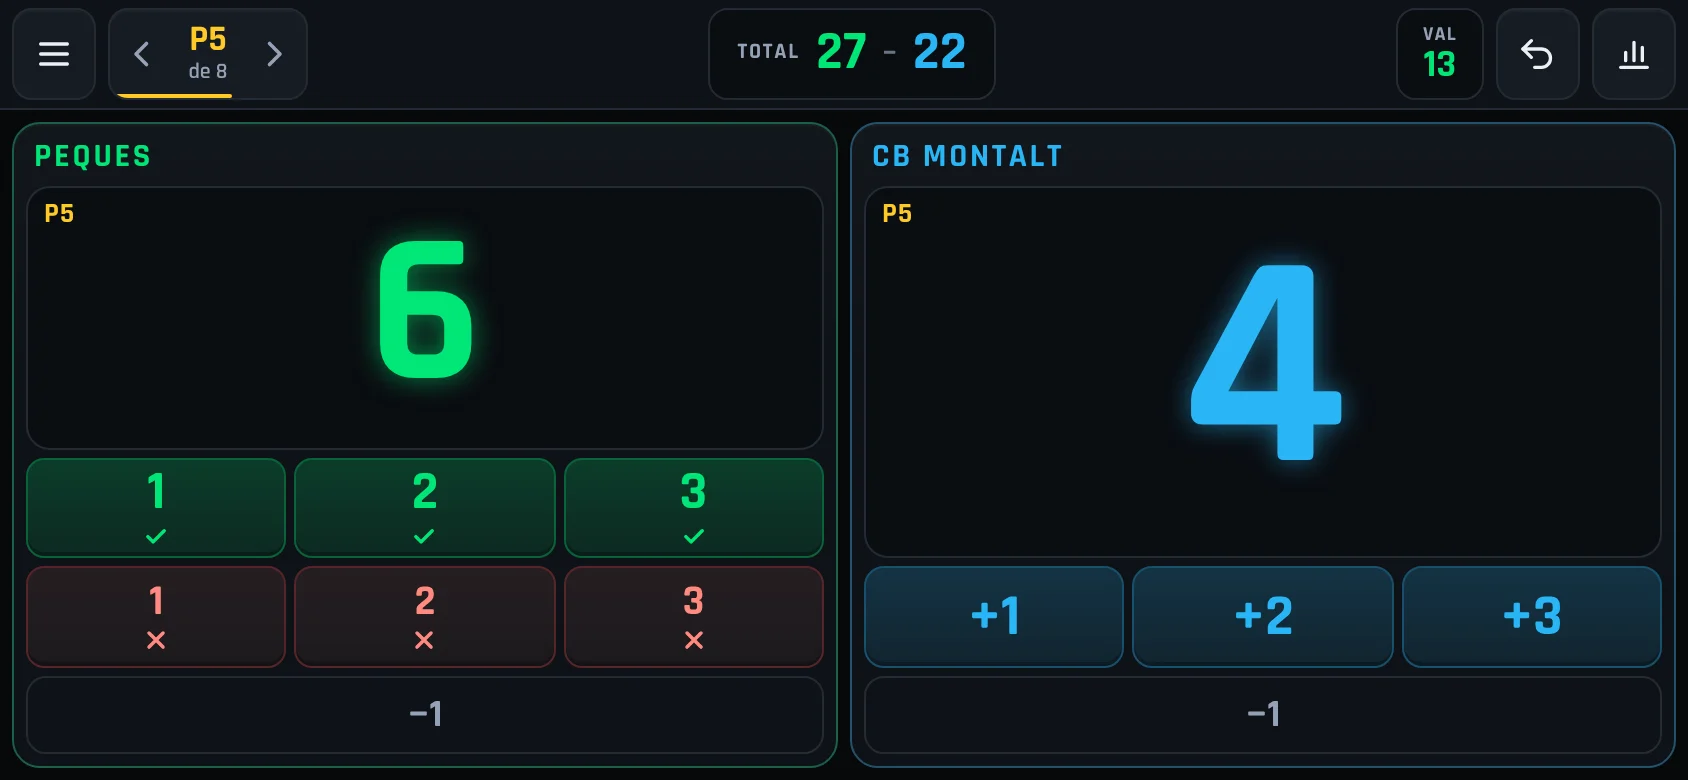
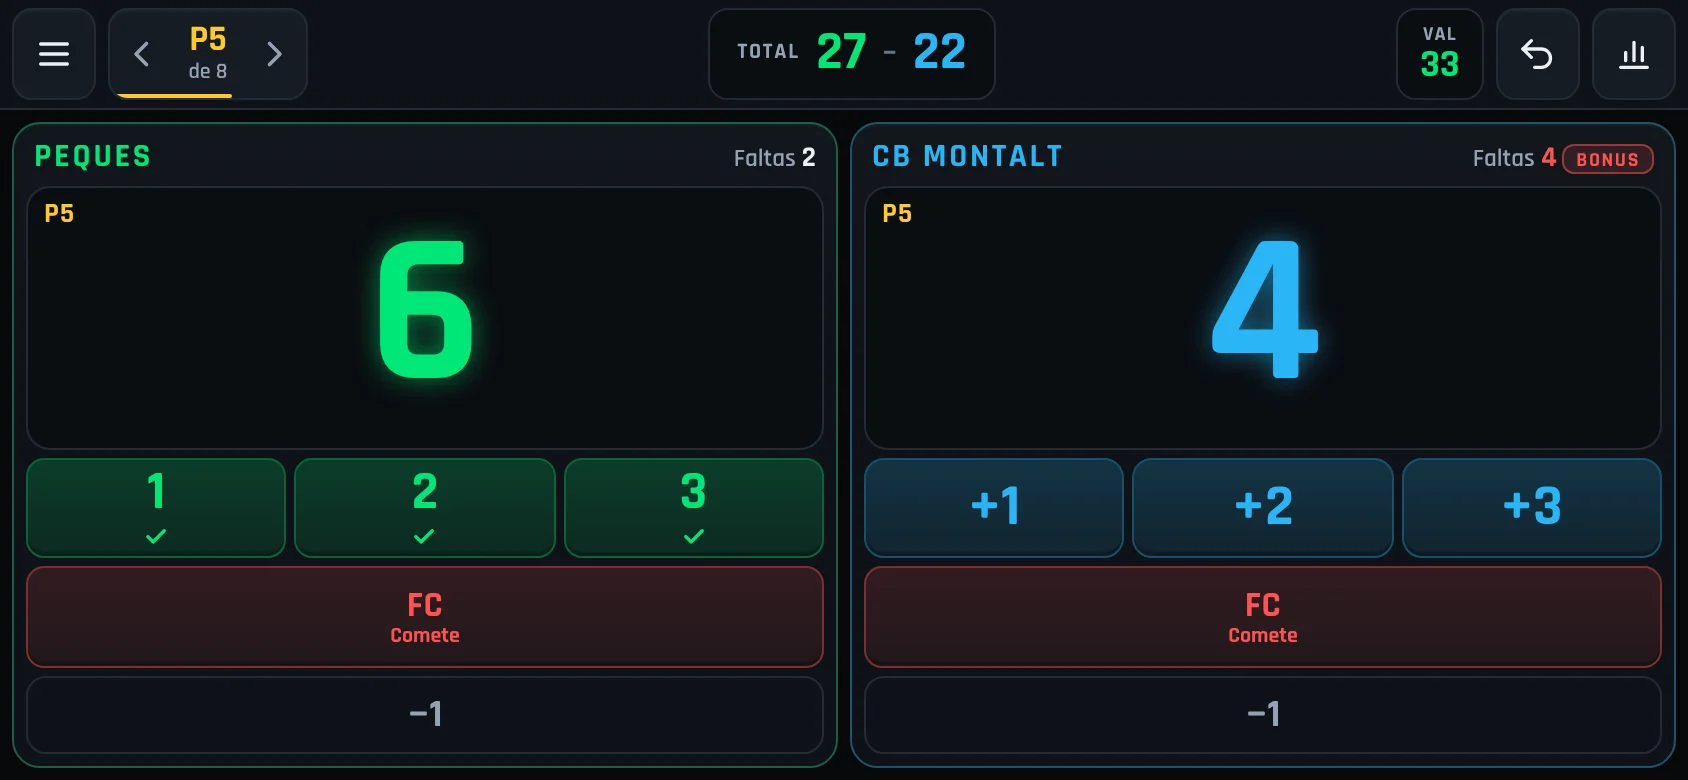
Web: capturas rehechas con las faltas de equipo y el perfil Marcador
- scripts/capturas.mjs: el equipo de solo marcador usa el perfil Marcador (solo
  anotados) y su partido lleva faltas de los dos equipos, con el rival en bonus.
- Capturas regeneradas y sus textos alternativos (heroAlt y growAlt, es y ca).
- App: con las faltas de equipo, si no caben los nombres enteros en la cabecera del
  partido, se ocultan en vez de quedar cortados (container query sobre .board).

Claude-Session: https://claude.ai/code/session_0156vubVKKrMSz7jtUMoVUYm

diff --git a/src/i18n/home.ts b/src/i18n/home.ts
@@ -16,7 +16,7 @@ export const home = {
     how: 'Ver cómo funciona',
     facts: ['Sin registro', 'Funciona sin conexión', 'Tus datos se quedan en tu móvil'],
     heroAlt:
-      'Pantalla de partido en My Own Basketball Stats: marcador 38 a 33 en el periodo 6, la valoración del equipo y el +/- del quinteto en pista, y una fila de botones por cada jugador con sus puntos, faltas, valoración y +/-',
+      'Pantalla de partido en My Own Basketball Stats: marcador 38 a 33 en el periodo 6 con las faltas de equipo de cada uno (0 y 2), la valoración del equipo y el +/- del quinteto en pista, y una fila de botones por cada jugador con sus puntos, faltas, valoración y +/-',
     growTitle: 'También es un marcador vitaminado',
     growIntro: '¿Solo quieres llevar el resultado? Empieza como con cualquier app de marcador, sin dar de alta a nadie, y ve añadiendo detalle cuando te lo pida el equipo.',
     grow: [
@@ -25,7 +25,7 @@ export const home = {
       { h: 'Cada jugador', p: 'Cuando quieras, añade la plantilla. Los partidos nuevos tienen una fila de botones por jugador en pista, con sus puntos, faltas, valoración y +/-, y los anteriores se quedan como estaban.' },
     ],
     growAlt:
-      'Modo marcador de My Own Basketball Stats: cada equipo en su mitad con los puntos del periodo 5 en grande (6 a 4), el total del partido arriba (27 a 22), los botones de tiros anotados y fallados del equipo, +1, +2 y +3 del rival y −1 en los dos para corregir',
+      'Modo marcador de My Own Basketball Stats: cada equipo en su mitad con los puntos del periodo 5 en grande (6 a 4), el total del partido arriba (27 a 22), las faltas de equipo del periodo (2 propias y 4 del rival, que está en bonus), los botones de tiros anotados y de falta del equipo, +1, +2, +3 y falta del rival y −1 en los dos para corregir',
     audienceTitle: 'Para quien está en la banda',
     audienceIntro: 'El marcador dice quién ha ganado. Las estadísticas te dicen por qué, y qué trabajar el martes.',
     audience: [
@@ -124,7 +124,7 @@ export const home = {
     how: 'Mira com funciona',
     facts: ['Sense registre', 'Funciona sense connexió', 'Les dades es queden al teu mòbil'],
     heroAlt:
-      "Pantalla de partit a My Own Basketball Stats: marcador 38 a 33 al període 6, la valoració de l'equip i el +/- del quintet a la pista, i una fila de botons per a cada jugador amb els seus punts, faltes, valoració i +/-",
+      "Pantalla de partit a My Own Basketball Stats: marcador 38 a 33 al període 6 amb les faltes d'equip de cadascun (0 i 2), la valoració de l'equip i el +/- del quintet a la pista, i una fila de botons per a cada jugador amb els seus punts, faltes, valoració i +/-",
     growTitle: 'També és un marcador vitaminat',
     growIntro: "Només vols portar el resultat? Comença com amb qualsevol app de marcador, sense donar d'alta ningú, i vés afegint detall quan te'l demani l'equip.",
     grow: [
@@ -133,7 +133,7 @@ export const home = {
       { h: 'Cada jugador', p: 'Quan vulguis, afegeix la plantilla. Els partits nous tenen una fila de botons per jugador a la pista, amb els seus punts, faltes, valoració i +/-, i els anteriors es queden com estaven.' },
     ],
     growAlt:
-      "Mode marcador de My Own Basketball Stats: cada equip a la seva meitat amb els punts del període 5 en gran (6 a 4), el total del partit a dalt (27 a 22), els botons de tirs anotats i fallats de l'equip, +1, +2 i +3 del rival i −1 als dos per corregir",
+      "Mode marcador de My Own Basketball Stats: cada equip a la seva meitat amb els punts del període 5 en gran (6 a 4), el total del partit a dalt (27 a 22), les faltes d'equip del període (2 pròpies i 4 del rival, que està en bonus), els botons de tirs anotats i de falta de l'equip, +1, +2, +3 i falta del rival i −1 als dos per corregir",
     audienceTitle: 'Per a qui és a la banda',
     audienceIntro: 'El marcador diu qui ha guanyat. Les estadístiques et diuen per què, i què cal treballar dimarts.',
     audience: [

diff --git a/public/minibasket-stats/styles.css b/public/minibasket-stats/styles.css
@@ -355,6 +355,11 @@ label.btn { flex-direction: row; font-family: var(--font); }
 .tfouls b { font-family: var(--font-digits); font-size: clamp(15px, 5vh, 20px); color: var(--text); }
 .tfouls.bonus { background: color-mix(in srgb, var(--red) 16%, var(--surface)); border-color: color-mix(in srgb, var(--red) 55%, var(--surface)); }
 .tfouls.bonus small, .tfouls.bonus b { color: var(--red); }
+/* Con las faltas de equipo, si no queda sitio para los nombres enteros, mejor sin nombres que cortados («C…») */
+.board { container: board / inline-size; }
+@container board (max-width: 540px) {
+  .board:has(.tfouls) .tname { display: none; }
+}
 
 /* Rendimiento en directo: valoración del equipo y +/- del quinteto en pista */
 .live-perf { display: flex; gap: 3px; flex: none; height: 100%; max-height: 46px; }
